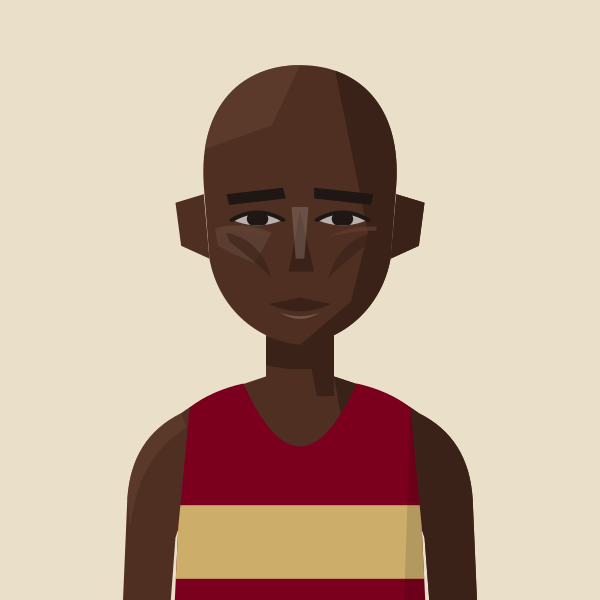
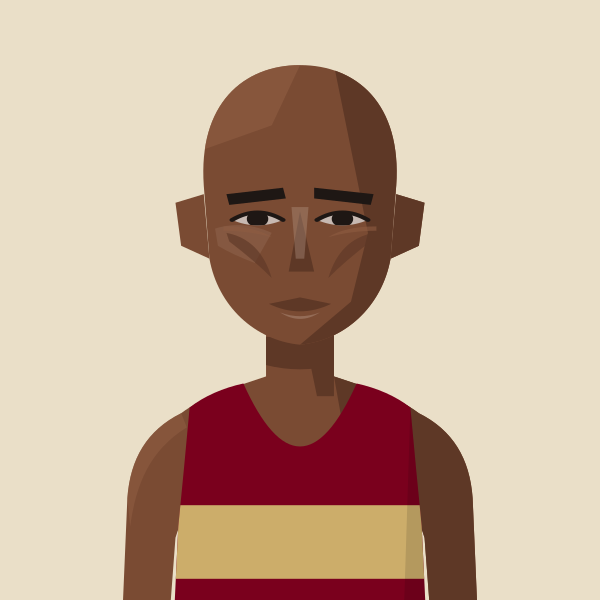
Malachi Byansi: skin one shade lighter
Claude-Session: https://claude.ai/code/session_01MgmDWhFqnSSnP4iBLKXUZC

Changed region(s): [[0.27, 0.09, 0.72, 0.75], [0.66, 0.69, 0.81, 1.0], [0.18, 0.69, 0.33, 1.0]]

diff --git a/files/index.html b/files/index.html
@@ -583,7 +583,7 @@ return m;})();
 const portraitFile=(name,club)=>{const k=normalizeNameForCompare(name||'').replace(/\s*\(([^)]*)\)$/,(m,c)=>CLUBS[c.toUpperCase()]?'':m);const a=PORTRAITS[k];if(a&&a.club===club)return a.file;const b=PORTRAITS[k+'@'+club];return b?b.file:null;};
 // Athlete header figure: superstar portrait if we have one, else a grey runner in the club vest, else the plain vest icon
 // Changes whenever any portrait changes (set by tools/build_og.py), so browsers fetch fresh images instead of old cached ones
-const PORTRAIT_V='dab7b72c';
+const PORTRAIT_V='a3e7bcbd';
 const AthletePortrait=({name,club,w,fill,onClick})=>{const[failed,setFailed]=useState(false);const file=portraitFile(name,club);const src=file?`/portraits/athletes/${file}.svg?v=${PORTRAIT_V}`:PORTRAIT_CLUBS.has(club)?`/portraits/clubs/${club.replace(/\//g,'').replace(/&/g,'and')}.svg?v=${PORTRAIT_V}`:null;if(!src||failed)return<div onClick={onClick} className={onClick?'cursor-pointer':''}><ClubShield club={club} size={w}/></div>;const h=Math.round(w*148/126),ih=Math.round(w*1.4);if(fill)return<div onClick={onClick} className="cursor-pointer" style={{alignSelf:'stretch',minHeight:h,aspectRatio:'126 / 148',flexShrink:0,position:'relative',borderRadius:4,overflow:'hidden'}}><img src={src} alt={file?`Portrait of ${name.replace(/\s*\([^)]*\)$/,'')}`:`Runner in ${CLUBS[club]?.name||club} vest`} style={{position:'absolute',top:0,left:0,display:'block',width:'100%',height:'auto'}} onError={()=>setFailed(true)}/></div>;return<div style={{width:w,height:h,borderRadius:4,overflow:'hidden',flexShrink:0}}><img src={src} alt={file?`Portrait of ${name.replace(/\s*\([^)]*\)$/,'')}`:`Runner in ${CLUBS[club]?.name||club} vest`} width={w} height={ih} style={{display:'block',width:w,height:ih}} onError={()=>setFailed(true)}/></div>;};
 const getClubVestSvg=(club)=>{
   const p="M3 0 L6 0 Q7 4 10 5 Q13 4 14 0 L17 0 L17 20 L3 20 Z";

diff --git a/tools/gen_portraits.py b/tools/gen_portraits.py
@@ -758,7 +758,7 @@ save("jean-paul-wright", figure("BEL", skin=1, hair="quiff", hair_colour="#3A262
 save("mike-hayes", figure("BEL", skin=1, hair="tuftrecede", hair_colour="#B89A6A", gaunt=True))
 save("marcello-bizio", figure("BEL", skin=2, hair="crop", hair_colour="black"))
 save("ollie-foote", figure("BEL", skin=1, hair="crop", hair_colour="#6B4A2E"))
-save("malachi-byansi", figure("BEL", skin=6, hair=None, gaunt=True))
+save("malachi-byansi", figure("BEL", skin=5, hair=None, gaunt=True))
 save("russell-dessaix-chin", figure("BEL", skin=3, hair="longcurls", hair_colour="#1E1714", headband="#F2F2F0", headband_thick=True, gaunt=True))
 save("james-kelly", figure("BEL", skin=1, hair="crop", hair_colour="#3A2A20", gaunt=True))
 save("alan-black", figure("BEL", skin=1, hair="sweptback", hair_colour="#5A4030", gaunt=True))
